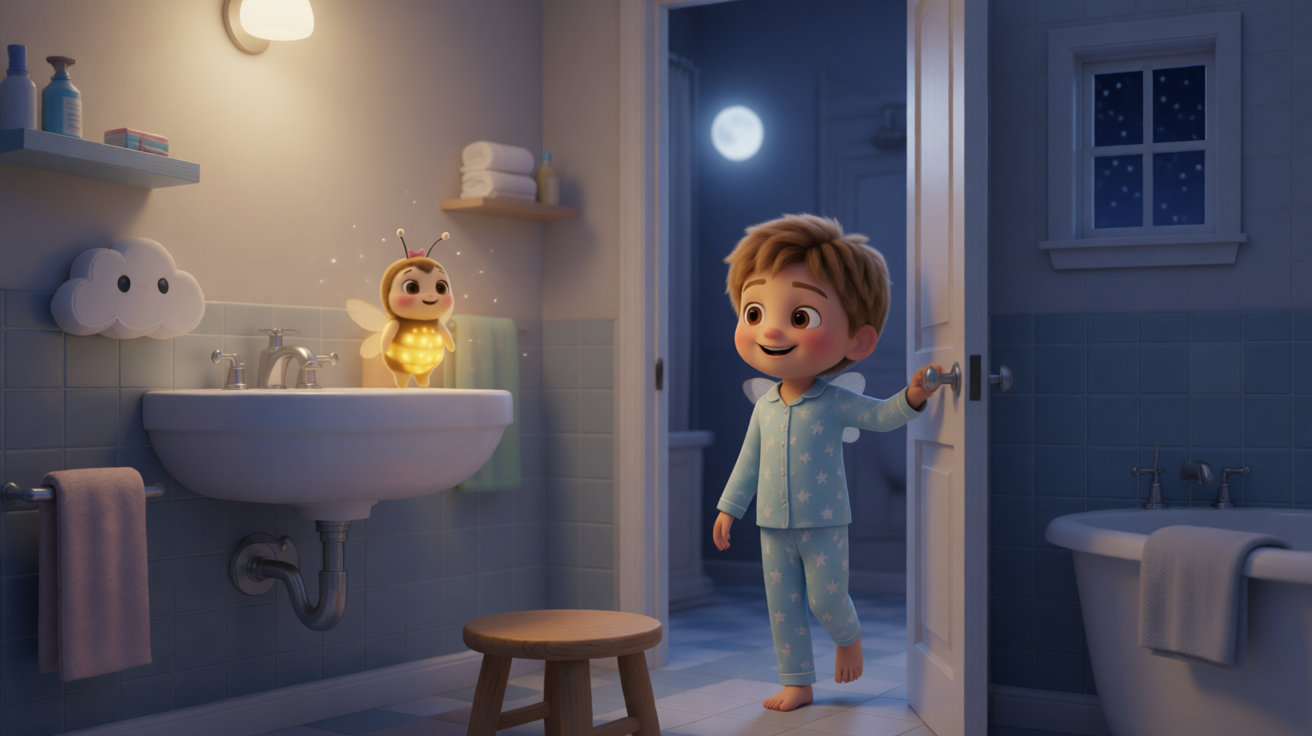
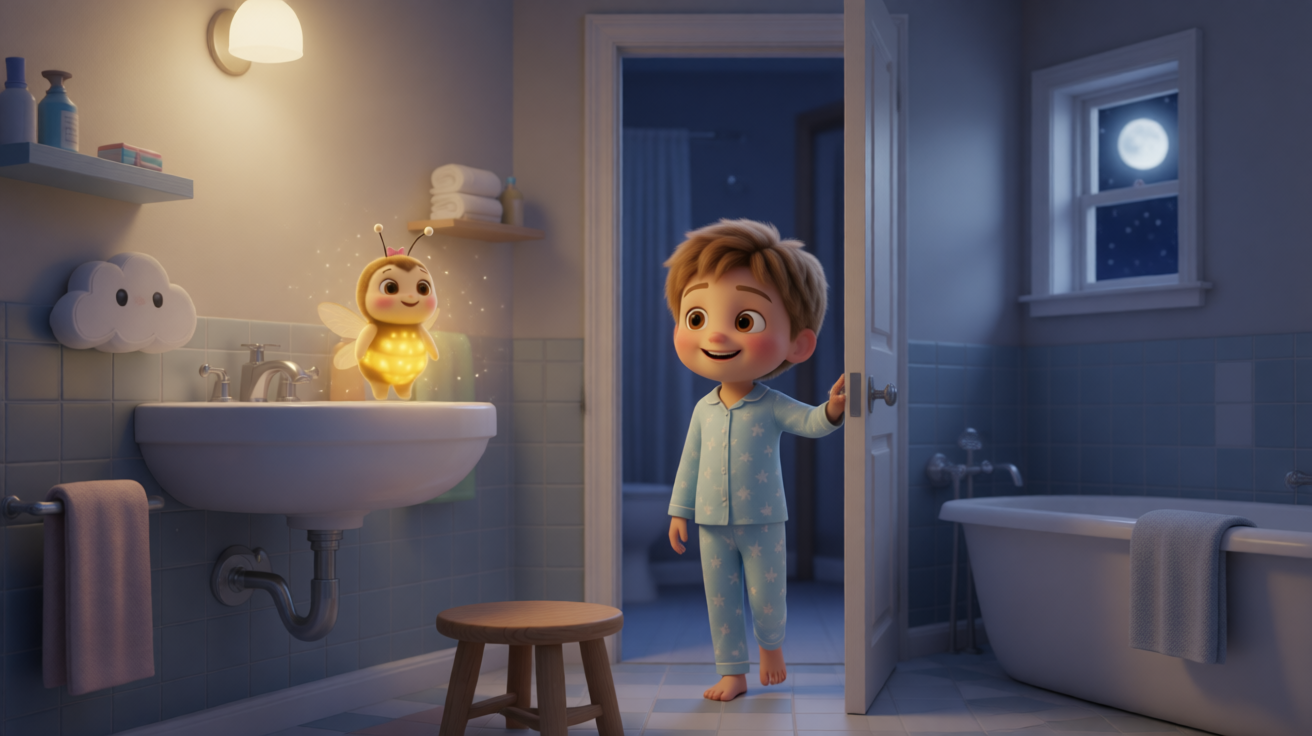
Juge : question à part sur les ailes dans le dos de Nino ; ép. 03 : nouvelle image de début
L'image de début du plan 1 avait deux petites ailes blanches dans le dos de Nino,
recopiées sur tout le plan (0:01 à 0:08). La question générale du juge ne les voyait
pas (0 sur 5) ; une question dédiée au dos les trouve (5 sur 5, aucune fausse alerte
sur 10 images saines). Fiche YouTube, miniature et sous-titres de l'épisode 03.

Claude-Session: https://claude.ai/code/session_015jBSHGhWZHbpPo4vzgxdVZ

diff --git a/chaine_lulu/pipeline/make_episode.py b/chaine_lulu/pipeline/make_episode.py
@@ -48,6 +48,14 @@ SUB_STYLE = (f"FontName={FONT},Bold=1,Fontsize=22,PrimaryColour=&H00FFFFFF,Outli
 HYBRID_BOY = "boy_has_insect_wings_or_antennae_growing_from_his_own_body"
 HYBRID_TOY = "teddy_bear_toy_or_object_with_its_own_insect_wings_or_antennae"
 LULU_SEEN = "is_the_firefly_in_the_picture"
+# ep. 03 : petites ailes blanches dans le dos de Nino, Lulu a l'autre bout de l'image ; la question generale
+# (HYBRID_BOY) ne les voit pas, une question a part sur le dos les trouve (5 sur 5, aucune fausse alerte sur 10)
+WING_BACK = "a_wing_shape_attached_to_the_boys_back_or_shoulders"
+WING_Q = ("Look at this frame of a children's cartoon. Look closely at the boy's back and shoulders. Sometimes "
+          "a small white or translucent wing sticks out from the boy's back, as if he were a fairy: that is a "
+          "defect, even if the firefly is somewhere else in the picture. The firefly's own wings are attached to "
+          "the firefly's round body, not to the boy. Return JSON: {\"boys\": int, \"" + WING_BACK + "\": bool, "
+          "\"where_is_the_firefly\": str}")
 TEDDIES = "plush_teddy_bears_not_counting_the_firefly"
 OTHERS = "living_creatures_other_than_the_boy_and_the_firefly_ignoring_toys_and_shadows"
 
@@ -239,6 +247,14 @@ class Episode:
                 problems.append(f"{name}: deformation")
             if v.get(HYBRID_BOY):
                 problems.append(f"{name}: Nino a des ailes ou des antennes")
+            elif int(v.get("boys", 0)) >= 1:
+                try:
+                    w = parse_json(api.chat_multimodal("You are a strict quality checker. Answer only JSON.", WING_Q,
+                                                       [fr], max_tokens=200))
+                    if w.get(WING_BACK):
+                        problems.append(f"{name}: aile dans le dos de Nino")
+                except Exception as e:
+                    log(f"juge indisponible ({e})")
             if v.get(HYBRID_TOY):
                 problems.append(f"{name}: un jouet ou un objet a des ailes ou des antennes")
             if int(v.get("toy_chests", 1)) > 1:

diff --git a/chaine_lulu/episodes/03_brosse_dents/youtube.md b/chaine_lulu/episodes/03_brosse_dents/youtube.md
@@ -1,0 +1,74 @@
+# La chanson des dents 🦷 Brosse tes dents avec Lulu la Luciole | Comptine pour enfants
+
+## Titre
+```
+La chanson des dents 🦷 Brosse tes dents avec Lulu la Luciole | Comptine pour enfants
+```
+
+## Description
+```
+🦷 Le pyjama est mis, c'est bientôt dodo… mais d'abord, les dents ! Lulu la Luciole allume sa petite lumière au-dessus du lavabo : qu'est-ce qu'on voit tout en haut ? Un bout de gâteau ! Et tout en bas ? Du chocolat ! Brosse, brosse, et hop, parti !
+
+Une comptine originale et joyeuse pour donner envie aux tout-petits de se brosser les dents avant de dormir. Chante avec Nino : « Petite brosse, petite brosse, fais briller mes petites dents ! »
+
+🎵 Paroles
+Le pyjama est mis, c'est bientôt dodo,
+mais d'abord les dents ! Lulu, au lavabo !
+Petite brosse, petite brosse,
+fais briller mes petites dents !
+Lulu brille, et moi je brosse,
+je souris en chantant !
+Lulu éclaire tout en haut…
+Qu'est-ce qu'on voit ? Un bout de gâteau !
+Brosse, brosse, et hop, parti !
+Lulu éclaire tout en bas…
+Qu'est-ce qu'on voit ? Du chocolat !
+Brosse, brosse, et hop, parti !
+Petite brosse, petite brosse,
+fais briller mes petites dents !
+Lulu brille, et moi je brosse,
+je souris en chantant !
+Lulu éclaire tout au fond…
+Qu'est-ce qu'on voit ? Un petit bonbon !
+Brosse, brosse, et hop, parti !
+Un peu d'eau pour rincer ma bouche,
+et je crache dans le lavabo !
+La brosse dans son verre, bravo !
+Petite brosse, petite brosse,
+fais briller mes petites dents !
+Lulu brille, et moi je brosse,
+je souris en chantant !
+Mes dents brillent comme Lulu,
+un bisou, au lit, dodo !
+Mes dents brillent comme Lulu,
+bonne nuit, petit Nino !
+
+🔔 Abonne-toi pour retrouver Lulu la Luciole chaque semaine !
+
+Une création Orbeo Studio.
+
+#brossetesdents #comptine #chansonpourenfants #lululaluciole
+```
+
+## Tags
+```
+chanson brosser les dents, brosse tes dents, comptine dents, comptine pour enfants, chanson pour enfants, routine du soir, comptine bébé, lulu la luciole, dessin animé enfant, hygiène enfant
+```
+
+## Réglages
+- Audience : Oui, conçue pour les enfants
+- Contenu modifié ou synthétique : Non (dessin animé)
+- Catégorie : Éducation
+- Langue : Français
+
+## Contrôle qualité
+- Chanson : paroles reconnues à 96%
+- Plan 1 : 1 essai(s), OK
+- Plan 2 : 1 essai(s), OK
+- Plan 3 : 2 essai(s), OK
+- Plan 4 : 2 essai(s), OK
+- Plan 5 : 2 essai(s), OK
+- Plan 6 : 2 essai(s), OK
+- Plan 7 : 1 essai(s), OK
+- Plan 8 : 1 essai(s), OK
+- Plan 9 : 1 essai(s), OK
